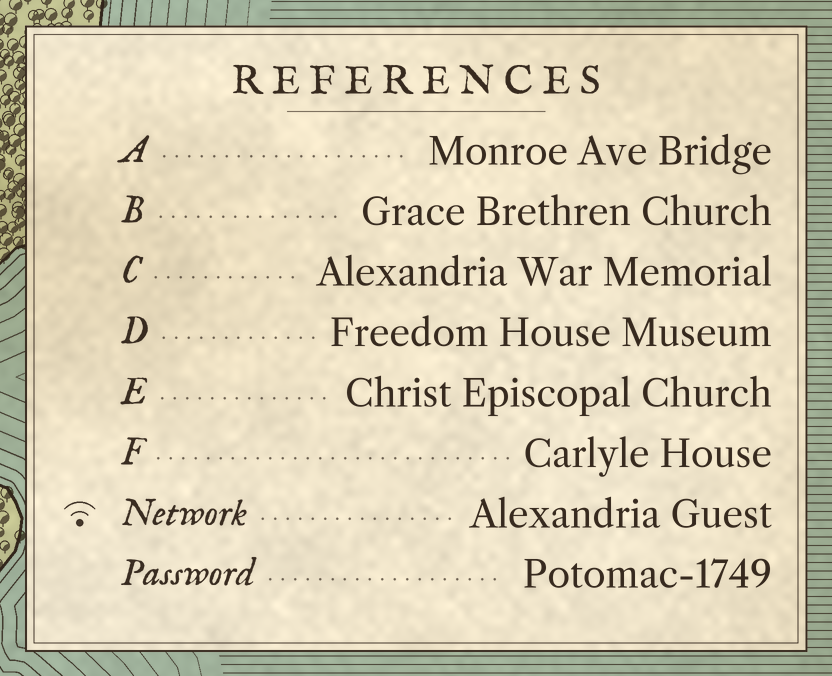
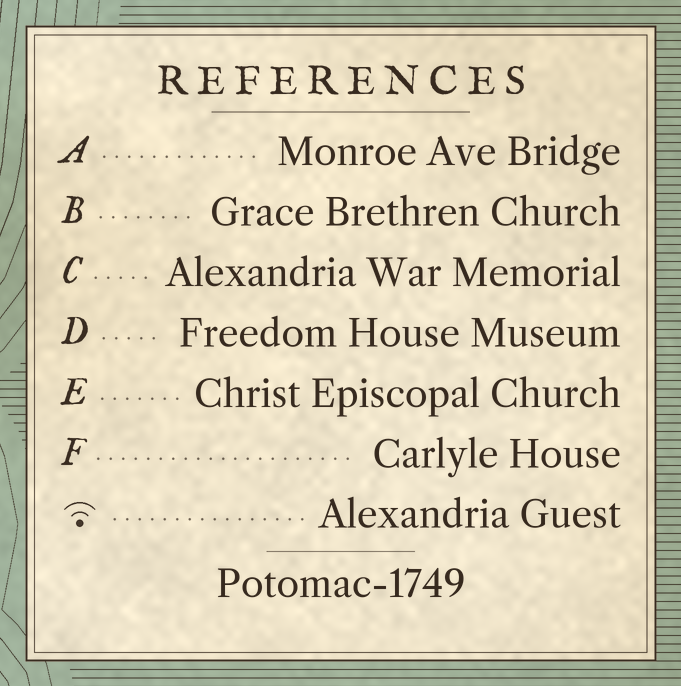
wifi-qr-map: unlabelled Wi-Fi entries in the legend
Nothing on the sheet says "Network" or "Password" any more. The network
name is keyed by the Wi-Fi mark alone, standing in the letter column like
one more reference. The password closes the table on its own line, under
a short rule, with no label.

- Removed --legend-network-label / --legend-password-label, the
  WIFI_LEGEND_*_LABEL env vars and their config defaults. The text
  overrides and --no-legend-password remain.
- Open networks print no password line (previously "none required").
- Manifest drops legend_labels and keeps legend_shows_password.

Claude-Session: https://claude.ai/code/session_017ezNSa2dZeggS6ULsaci4L

diff --git a/qrmap/build.py b/qrmap/build.py
@@ -56,16 +56,13 @@ def _bits(a: np.ndarray) -> list[str]:
     return ["".join("1" if v else "0" for v in row) for row in a]
 
 
-def legend_rows(a, ssid, password, env) -> list[tuple[str, str]]:
-    """The two fallback entries for people whose phones won't scan."""
-    net_label = a.legend_network_label or env.get("WIFI_LEGEND_NETWORK_LABEL") or config.LEGEND_NETWORK_LABEL
-    pw_label = a.legend_password_label or env.get("WIFI_LEGEND_PASSWORD_LABEL") or config.LEGEND_PASSWORD_LABEL
+def legend_entries(a, ssid, password, env) -> tuple[str, str | None]:
+    """The fallback text for phones that won't scan: the network name (printed beside
+    the Wi-Fi mark) and the password (printed alone at the foot of the legend, with
+    no label, so it doesn't announce itself), or None to leave the password off."""
     net = a.legend_network_text or env.get("WIFI_LEGEND_NETWORK_TEXT") or ssid
-    pw = a.legend_password_text or env.get("WIFI_LEGEND_PASSWORD_TEXT") or password or "none required"
-    rows = [(net_label, net)]
-    if not a.no_legend_password:
-        rows.append((pw_label, pw))
-    return rows
+    pw = a.legend_password_text or env.get("WIFI_LEGEND_PASSWORD_TEXT") or password
+    return net, None if a.no_legend_password else pw
 
 
 def _svg(out: Path, layout: config.Layout, code: qr.Code, dist: district.District):
@@ -110,8 +107,8 @@ def build(a) -> Path:
           f"{dist.module}px ({dist.module / layout.dpi:.3f} in); ward {dist.side / layout.dpi:.2f} in "
           f"+ {dist.quiet}-module quiet zone, turned {dist.angle:g} deg")
 
-    legend = None if a.no_legend else {"title": config.LEGEND_TITLE,
-                                       "rows": legend_rows(a, ssid, password, env)}
+    net, pw = legend_entries(a, ssid, password, env)
+    legend = None if a.no_legend else {"title": config.LEGEND_TITLE, "network": net, "password": pw}
     art = render_map.render(model, layout, ss=a.ss, district=dist, code=code, legend=legend)
     print(f"{art['courts']} court(s) elsewhere in town echo the finder patterns")
     final, fixed = guard.guard(art["rgb"], code, dist)
@@ -132,8 +129,7 @@ def build(a) -> Path:
         "dpi": layout.dpi, "inches": layout.inches, "version": code.version, "error": code.error,
         "mask": code.mask, "payload_sha256": code.payload_sha256, "ssid": ssid, "security": security,
         "district": dist.to_dict(), "module_inches": dist.module / layout.dpi, "map_source": model.source,
-        "legend_labels": [lb for lb, _ in legend["rows"]] if legend else [],
-        "legend_shows_password": bool(legend) and len(legend["rows"]) > 1,
+        "legend_shows_password": bool(legend) and legend["password"] is not None,
         "legend_references": art["references"],
         "guard_corrections": fixed,
         "matrix": _bits(code.dark), "function": _bits(code.function),
@@ -157,11 +153,9 @@ def main(argv=None):
     ap.add_argument("--module-in", type=float, help=f"module and house-plot size in inches (default {config.MODULE_INCHES}); "
                     "the map's scale stays fixed")
     lg = ap.add_argument_group("legend (fallback text for devices that can't scan)")
-    lg.add_argument("--legend-network-label", help=f"default {config.LEGEND_NETWORK_LABEL!r}")
-    lg.add_argument("--legend-password-label", help=f"default {config.LEGEND_PASSWORD_LABEL!r}")
     lg.add_argument("--legend-network-text", help="default: the SSID")
     lg.add_argument("--legend-password-text", help="default: the password (e.g. set a hint instead)")
-    lg.add_argument("--no-legend-password", action="store_true", help="omit the password row")
+    lg.add_argument("--no-legend-password", action="store_true", help="omit the password line")
     lg.add_argument("--no-legend", action="store_true")
     ap.add_argument("--dpi", type=int, default=300)
     ap.add_argument("--ss", type=int, default=2, help="supersampling for line art")

diff --git a/qrmap/ward.py b/qrmap/ward.py
@@ -100,21 +100,23 @@ def wifi_mark(draw, cx, cy, s, fill=255, width=2):
 
 def legend_box(cv, legend: dict, font) -> dict:
     """Fonts, metrics and the box (supersampled pixels) of the cartouche: title, then
-    'label ...... value' rows, the lettered references first and the Wi-Fi rows after."""
+    'label ...... value' rows (the lettered references, then the network name keyed by
+    the Wi-Fi mark alone), then the password by itself on the last line, unlabelled."""
     from .geo import proj
 
     ss, dpi = cv.ss, cv.layout.dpi
     base = dpi * ss * config.LEGEND_TEXT_INCHES
     L = {"base": base, "f_title": font("caps", base * 1.05), "f_label": font("italic", base),
          "f_value": font("caslon", base * 0.95), "pad": base * 0.9, "icon": base * 1.1,
-         "line_h": base * 1.55, "rows": [*legend.get("refs", []), *legend["rows"]],
-         "icon_row": len(legend.get("refs", []))}
+         "line_h": base * 1.55, "rows": [*legend.get("refs", []), ("", legend["network"])],
+         "icon_row": len(legend.get("refs", [])), "password": legend.get("password")}
     rows = L["rows"]
-    lab_w = max(L["f_label"].getlength(lb) for lb, _ in rows) + L["icon"] * 1.4
+    lab_w = max([L["f_label"].getlength(lb) for lb, _ in rows] + [L["icon"]])
     val_w = max(L["f_value"].getlength(v) for _, v in rows)
+    pw_w = L["f_value"].getlength(L["password"]) if L["password"] else 0
     L["title_w"] = L["f_title"].getlength(" ".join(legend["title"]))
-    W = max(lab_w + base * 1.6 + val_w, L["title_w"]) + 2 * L["pad"]
-    H = L["pad"] * 2 + L["line_h"] * (len(rows) + 1.2)
+    W = max(lab_w + base * 1.6 + val_w, L["title_w"], pw_w) + 2 * L["pad"]
+    H = L["pad"] * 2 + L["line_h"] * (len(rows) + 1.2 + (1.15 if L["password"] else 0))
 
     cx, cy = cv.xy(*proj(*legend.get("center", config.LEGEND_CENTER)))
     bx0, by0, bx1, by1 = cv.box
@@ -149,17 +151,24 @@ def draw_legend(cv, layers: dict, legend: dict, lw: float, font, occupied: list)
     for i, (label, value) in enumerate(L["rows"]):
         y = ty + L["line_h"] * (i + 1.15)
         lx = x0 + pad
-        if i == L["icon_row"]:
+        if i == L["icon_row"]:  # the Wi-Fi mark stands where a reference letter would
             wifi_mark(d, lx + icon * 0.45, y + base * 0.22, icon * 0.5, fill=225, width=w + 1)
-        lx += icon * 1.4
-        d.text((lx, y), label, font=f_label, fill=240, anchor="lm")
+            key_w = icon * 0.9
+        else:
+            d.text((lx, y), label, font=f_label, fill=240, anchor="lm")
+            key_w = f_label.getlength(label)
         vx = x1 - pad - f_value.getlength(value)
         d.text((x1 - pad, y), value, font=f_value, fill=250, anchor="rm")
-        # Dotted leader between label and value, as in an engraved table of references.
-        sx = lx + f_label.getlength(label) + base * 0.4
+        # Dotted leader between key and value, as in an engraved table of references.
+        sx = lx + key_w + base * 0.4
         ex = vx - base * 0.4
         step = base * 0.32
         t = sx
         while t < ex:
             d.ellipse([t - w, y + base * 0.12 - w, t + w, y + base * 0.12 + w], fill=150)
             t += step
+    if L["password"]:  # alone, centred, under a short rule
+        y = ty + L["line_h"] * (len(L["rows"]) + 1.3)
+        d.line([cx - title_w * 0.2, y - L["line_h"] * 0.55, cx + title_w * 0.2, y - L["line_h"] * 0.55],
+               fill=150, width=w)
+        d.text((cx, y), L["password"], font=f_value, fill=250, anchor="mm")

diff --git a/tests/test_pipeline.py b/tests/test_pipeline.py
@@ -64,14 +64,15 @@ def test_district_transform():
     assert abs(x - 0) < 1e-9 and abs(y - 0) < 1e-9
 
 
-def test_legend_rows():
+def test_legend_entries():
     from types import SimpleNamespace
-    from qrmap.build import legend_rows
-    a = SimpleNamespace(legend_network_label=None, legend_password_label="Key", legend_network_text=None,
-                        legend_password_text=None, no_legend_password=False)
-    assert legend_rows(a, "Guest", "pw", {}) == [("Network", "Guest"), ("Key", "pw")]
+    from qrmap.build import legend_entries
+    a = SimpleNamespace(legend_network_text=None, legend_password_text=None, no_legend_password=False)
+    assert legend_entries(a, "Guest", "pw", {}) == ("Guest", "pw")
+    assert legend_entries(a, "Guest", None, {}) == ("Guest", None)  # open network
+    assert legend_entries(a, "Guest", "pw", {"WIFI_LEGEND_PASSWORD_TEXT": "ask at the bar"}) == ("Guest", "ask at the bar")
     a.no_legend_password = True
-    assert legend_rows(a, "Guest", "pw", {}) == [("Network", "Guest")]
+    assert legend_entries(a, "Guest", "pw", {}) == ("Guest", None)
 
 
 def test_config_bbox_is_square_around_center():
@@ -205,8 +206,12 @@ def test_references_pick_real_buildings(monkeypatch):
 def test_legend_lists_references_before_wifi_rows():
     from qrmap import render_map, ward
     cv = render_map.Canvas(config.Layout(dpi=100), 1)
-    lg = {"title": "REFERENCES", "rows": [("Network", "Guest")], "refs": [("A", "Carlyle House")]}
+    lg = {"title": "REFERENCES", "network": "Guest", "password": "pw", "refs": [("A", "Carlyle House")]}
     L = ward.legend_box(cv, lg, render_map.font)
-    assert L["rows"] == [("A", "Carlyle House"), ("Network", "Guest")] and L["icon_row"] == 1
+    # No "Network" / "Password" labels: the Wi-Fi mark keys the name; the password stands alone.
+    assert L["rows"] == [("A", "Carlyle House"), ("", "Guest")] and L["icon_row"] == 1
+    assert L["password"] == "pw" and all("pw" not in v for _, v in L["rows"])
+    H = L["box"][3] - L["box"][1]
+    assert H > ward.legend_box(cv, {**lg, "password": None}, render_map.font)["box"][3] - L["box"][1] - 1e-6
     x0, y0, x1, y1 = L["box"]
     assert cv.box[0] <= x0 < x1 <= cv.box[2] and cv.box[1] <= y0 < y1 <= cv.box[3]

diff --git a/qrmap/config.py b/qrmap/config.py
@@ -141,8 +141,6 @@ CORE_DARK = 44.0
 # Engravers put cartouches in open water; set legend.center in config.yaml to do the same.
 LEGEND_CENTER = _latlon((CFG.get("legend") or {}).get("center"), (SOUTH, WEST))
 LEGEND_TITLE = "REFERENCES"
-LEGEND_NETWORK_LABEL = "Network"
-LEGEND_PASSWORD_LABEL = "Password"
 LEGEND_TEXT_INCHES = 0.13  # label size; values print slightly smaller in Caslon
 # Lettered references above the Wi-Fi rows, keyed to letters on the map, as on an
 # engraved plan: `auto` picks real named buildings from OSM; a list of

diff --git a/README.md b/README.md
@@ -7,9 +7,10 @@ block on the map is drawn as house plots the size of one QR module, and in the h
 blocks a house is a dark module and an empty plot a light one. The finder patterns are
 courtyard blocks, a building type that turns up elsewhere in town too. A table of
 references in the river gives the network name and password, with a small Wi-Fi mark,
-for any device that can't scan. They sit under lettered entries for real buildings on
-the sheet (Carlyle House, Christ Church…), keyed to letters on the map, so they read as
-two more references. Every build is checked by decoders before it counts as done.
+for any device that can't scan. The network name follows lettered entries for real
+buildings on the sheet (Carlyle House, Christ Church…), keyed to letters on the map,
+with only the Wi-Fi mark where a letter would be. The password stands alone at the
+foot of the table with no label, so nothing on the sheet says "password". Every build is checked by decoders before it counts as done.
 
 Alexandria is only the default. Set any centre point in `config.yaml` to map somewhere
 else (see [Mapping another place](#mapping-another-place)).
@@ -37,8 +38,9 @@ make proof           # 8 x 8 in PDF of the sheet, for a cheap test print
 `make build` exits non-zero if validation fails. The password is never accepted as a
 command-line flag. It comes from `$WIFI_PASSWORD`, the gitignored `wifi.env`, or a
 prompt, and it is masked in every log and report. The printed legend shows it on
-purpose; to leave it off, use `--no-legend-password` or `--legend-password-text "ask
-at the bar"`.
+purpose, unlabelled at the foot of the table; to leave it off, use
+`--no-legend-password` or `--legend-password-text "ask at the bar"`. Open networks
+print no password line.
 
 ### Options (`make build ARGS="..."`)
 
@@ -49,9 +51,8 @@ at the bar"`.
 | `--module-in IN` | `0.05` | Printed module and house-plot size. Bigger is easier to scan; the map's scale stays the same. |
 | `--ecc l/m/q/h` | `q` | Error correction. Higher means more modules, so a bigger ward. |
 | `--version N` | smallest that fits | Force more modules, so more blocks in the ward |
-| `--legend-network-label` / `--legend-password-label` | `Network` / `Password` | Legend labels |
-| `--legend-network-text` / `--legend-password-text` | SSID / password | Legend values |
-| `--no-legend-password`, `--no-legend` | | Omit the password row, or the whole legend |
+| `--legend-network-text` / `--legend-password-text` | SSID / password | Legend text (printed without labels) |
+| `--no-legend-password`, `--no-legend` | | Omit the password line, or the whole legend |
 
 Location, title, ward and legend position, landmarks, hills and place labels are set in
 `config.yaml`. Plot size, house density, hatch pitch, street widths, tones, legend text
@@ -118,8 +119,9 @@ OSM extract ─► shapely blocks, cut back from every road ─► each block la
   buildings, markets and museums, churches, then stations. Within each kind, shorter
   names win, and the picks are spread apart and kept off the ward and the cartouche.
   Each gets an engraved letter on the map (beside its symbol, if it is a landmark),
-  lettered north to south. The Network and Password rows follow in the same type and
-  leaders. Set `references:` in `config.yaml` to list your own (`{at: [lat, lon],
+  lettered north to south. The network name follows in the same type and leaders,
+  keyed by the Wi-Fi mark instead of a letter, and the password closes the table on
+  its own line. Set `references:` in `config.yaml` to list your own (`{at: [lat, lon],
   text: ...}`) or `[]` for none.
 - **Deterministic.** Every random choice (which plots are built, party walls, courts)
   comes from a fixed seed, so the same inputs give a byte-identical sheet.
